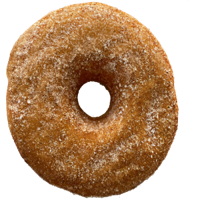
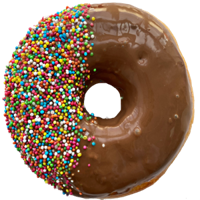
minor changes

diff --git a/src/components/Products.js b/src/components/Products.js
@@ -1,35 +1,57 @@
 import React from 'react';
 import {
-  ProductsContainer,
-  ProductWrapper,
-  ProductsHeading,
-  ProductTitle,
-  ProductCard,
-  ProductImg,
-  ProductInfo,
-  ProductPrice,
-  ProductButton
+    ProductsContainer,
+    ProductSection,
+    ProductWrapper,
+    ProductsHeading,
+    ProductTitle,
+    ProductCard,
+    ProductImg,
+    ProductInfo,
+    ProductPrice,
+    ProductButton
 } from './styles/Products.styled';
+import { donutList, desertList } from './productLists';
 
-const Products = ({ heading, list }) => {
+const Products = () => {
     return (
         <ProductsContainer>
-            <ProductsHeading>{heading}</ProductsHeading>
-            <ProductWrapper>
-                {list.map((product, index) => {
-                    return (
-                        <ProductCard key={index}>
-                            <ProductImg src={product.img} alt={product.name} />
-                            <ProductInfo>
-                                <ProductTitle>{product.name}</ProductTitle>
-                                <ProductPrice>{product.price}</ProductPrice>
-                                <ProductButton>Add to Cart</ProductButton>
-                            </ProductInfo>
-                        </ProductCard>
-                    );
-                })}
-            </ProductWrapper>
+            <ProductSection>
+                <ProductsHeading>Donuts</ProductsHeading>
+                <ProductWrapper>
+                    {donutList.map((product, index) => {
+                        return (
+                            <ProductCard key={index}>
+                                <ProductImg src={product.img} alt={product.name} />
+                                <ProductInfo>
+                                    <ProductTitle>{product.name}</ProductTitle>
+                                    <ProductPrice>{product.price}</ProductPrice>
+                                    <ProductButton>Add to Cart</ProductButton>
+                                </ProductInfo>
+                            </ProductCard>
+                        );
+                    })}
+                </ProductWrapper>
+            </ProductSection>
+            <ProductSection>
+                <ProductsHeading>Desserts</ProductsHeading>
+                <ProductWrapper>
+                    {desertList.map((product, index) => {
+                        return (
+                            <ProductCard key={index}>
+                                <ProductImg src={product.img} alt={product.name} />
+                                <ProductInfo>
+                                    <ProductTitle>{product.name}</ProductTitle>
+                                    <ProductPrice>{product.price}</ProductPrice>
+                                    <ProductButton>Add to Cart</ProductButton>
+                                </ProductInfo>
+                            </ProductCard>
+                        );
+                    })}
+                </ProductWrapper>
+            </ProductSection>
         </ProductsContainer>
+
     );
 }
 

diff --git a/src/components/productLists.js b/src/components/productLists.js
@@ -2,6 +2,15 @@ import donut1 from '../images/donuts/donut1.png';
 import donut2 from '../images/donuts/donut2.png';
 import donut3 from '../images/donuts/donut3.png';
 import donut4 from '../images/donuts/donut4.png';
+import donut5 from '../images/donuts/donut5.png';
+import donut6 from '../images/donuts/donut6.png';
+import donut7 from '../images/donuts/donut7.png';
+import dessert1 from '../images/desserts/dessert1.png';
+import dessert2 from '../images/desserts/dessert2.png';
+import dessert3 from '../images/desserts/dessert3.png';
+import dessert4 from '../images/desserts/dessert4.png';
+import dessert5 from '../images/desserts/dessert5.png';
+import dessert6 from '../images/desserts/dessert6.png';
 
 export const donutList = [
     {
@@ -11,7 +20,7 @@ export const donutList = [
     },
     {
         img: donut2,
-        name: 'Cinnamon Donut',
+        name: 'Chocolate Donut',
         price: '£2.99'
     },
     {
@@ -23,5 +32,53 @@ export const donutList = [
         img: donut4,
         name: 'Tiramisu Filled Donut',
         price: '£3.49'
+    },
+    {
+        img: donut5,
+        name: 'Blueberry Donut',
+        price: '£3.49'
+    },
+    {
+        img: donut6,
+        name: 'Pistachio Donut',
+        price: '£3.49'
+    },
+    {
+        img: donut7,
+        name: 'Coconut Donut',
+        price: '£3.49'
+    }
+];
+
+export const desertList = [
+    {
+        img: dessert1,
+        name: 'Raspberry Cheesecake',
+        price: '£3.99'
+    },
+    {
+        img: dessert2,
+        name: 'Lemon Cheesecake',
+        price: '£3.99'
+    },
+    {
+        img: dessert3,
+        name: 'Caramel Cheesecake',
+        price: '£3.99'
+    },
+    {
+        img: dessert4,
+        name: 'Oreo Cheesecake',
+        price: '£3.99'
+    },
+    {
+        img: dessert5,
+        name: 'Tiramisu',
+        price: '£3.99'
+    },
+    {
+        img: dessert6,
+        name: 'Banoffee Pie',
+        price: '£3.99'
     }
 ];

diff --git a/src/components/styles/Products.styled.js b/src/components/styles/Products.styled.js
@@ -2,9 +2,13 @@ import styled from 'styled-components';
 
 export const ProductsContainer = styled.div`
   min-height: 100vh;
-  padding: 5rem calc((100vw - 1300px) / 2);
-  background: #cf6e9e;
+  padding: 2rem calc((100vw - 1300px) / 2);
+  background: #feafc4;
   color: #fff;
+`;
+
+export const ProductSection = styled.section`
+  padding-bottom: 2rem;
 `;
 
 export const ProductWrapper = styled.div`
@@ -15,15 +19,15 @@ export const ProductWrapper = styled.div`
 `;
 
 export const ProductCard = styled.div`
-  margin: 0 2rem;
-  padding: 1rem 0;
+  margin: 2rem;
   width: 250px;
+  box-shadow: 3px 5px  1px 1px rgba(255, 210, 168, 0.7);
 `;
 
 export const ProductImg = styled.img`
-  height: 200px;
+  height: 180px;
   display: block;
-  min-width: 200px;
+  min-width: 180px;
   max-width: 100%;
   margin: 0 auto;
 `;
@@ -31,11 +35,10 @@ export const ProductImg = styled.img`
 export const ProductsHeading = styled.h1`
   font-size: clamp(2rem, 2.5vw, 3rem);
   text-align: center;
-  margin-bottom: 5rem;
+  margin: 3rem 0;
 `;
 
 export const ProductTitle = styled.h2`
-  font-weight: 400;
   font-size: 1.2rem;
 `;
 

diff --git a/src/App.js b/src/App.js
@@ -2,14 +2,14 @@ import { BrowserRouter as Router } from 'react-router-dom';
 import GlobalStyle from "./theme/GlobalStyle";
 import Hero from "./components/Hero";
 import Products from './components/Products';
-import {donutList} from './components/productLists'
+
 
 function App() {
   return (
     <Router>
       <GlobalStyle />
       <Hero />
-      <Products heading='Donuts' list={donutList}/>
+      <Products />
     </Router>
   );
 }

diff --git a/src/components/styles/Hero.styled.js b/src/components/styles/Hero.styled.js
@@ -5,6 +5,7 @@ export const HeroContainer = styled.div`
     background: linear-gradient(to right, rgba(255, 0, 178, 0.1), rgba(255, 0, 178, 0.01)),
     url(${BgImg});
     background-color: #cf6e9e;//If the images cannot be loaded—for instance, when the network is down—the background color will be used as a fallback.
+    /* background-color: #fec3c7; */
     height: 100vh;
     background-position: center;
     background-size: cover;
